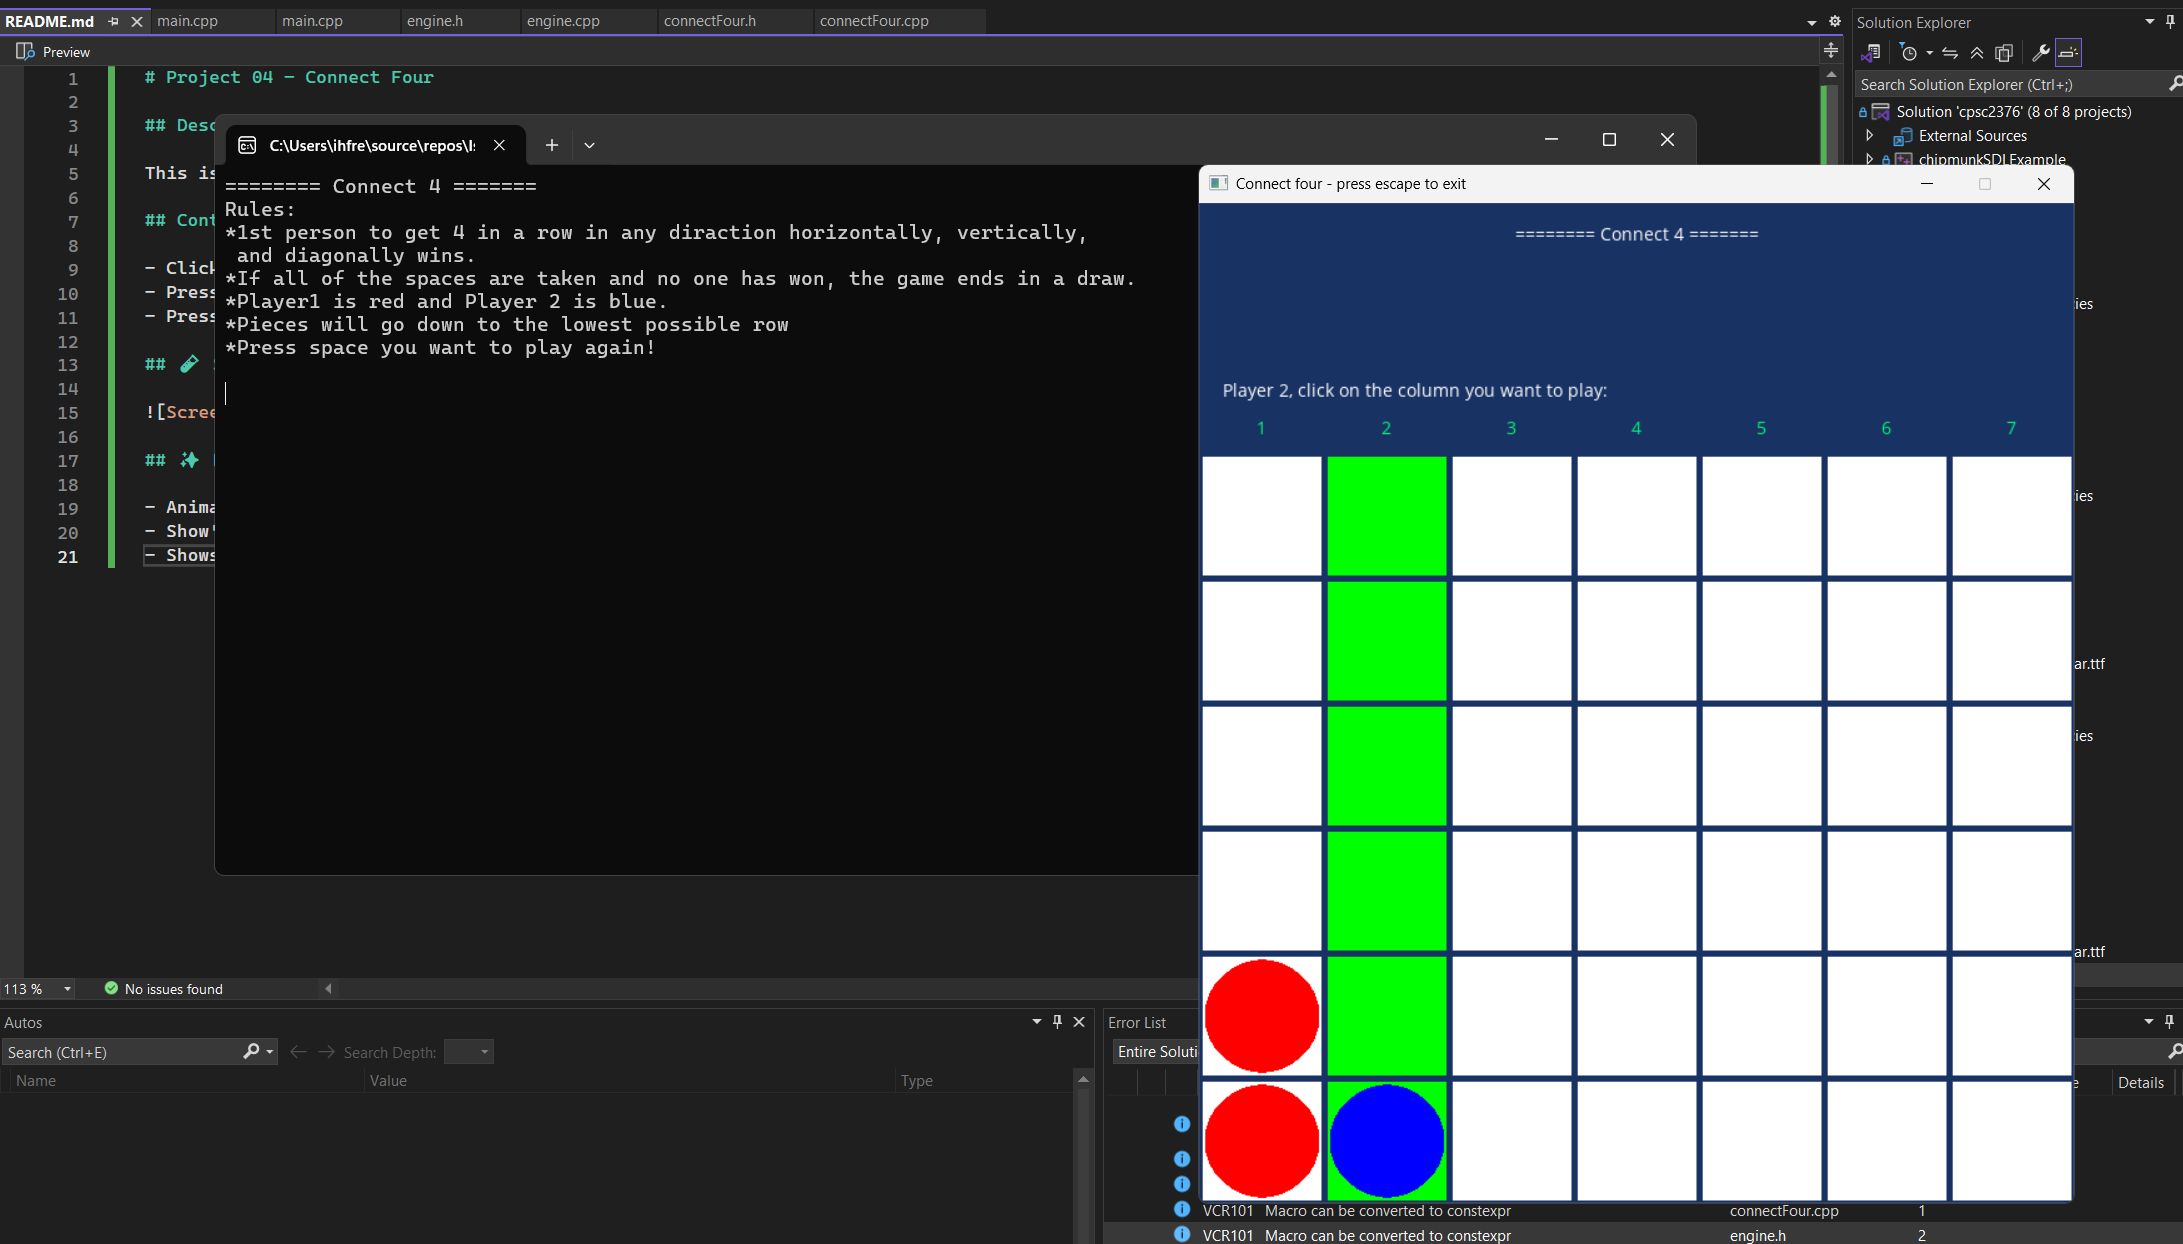
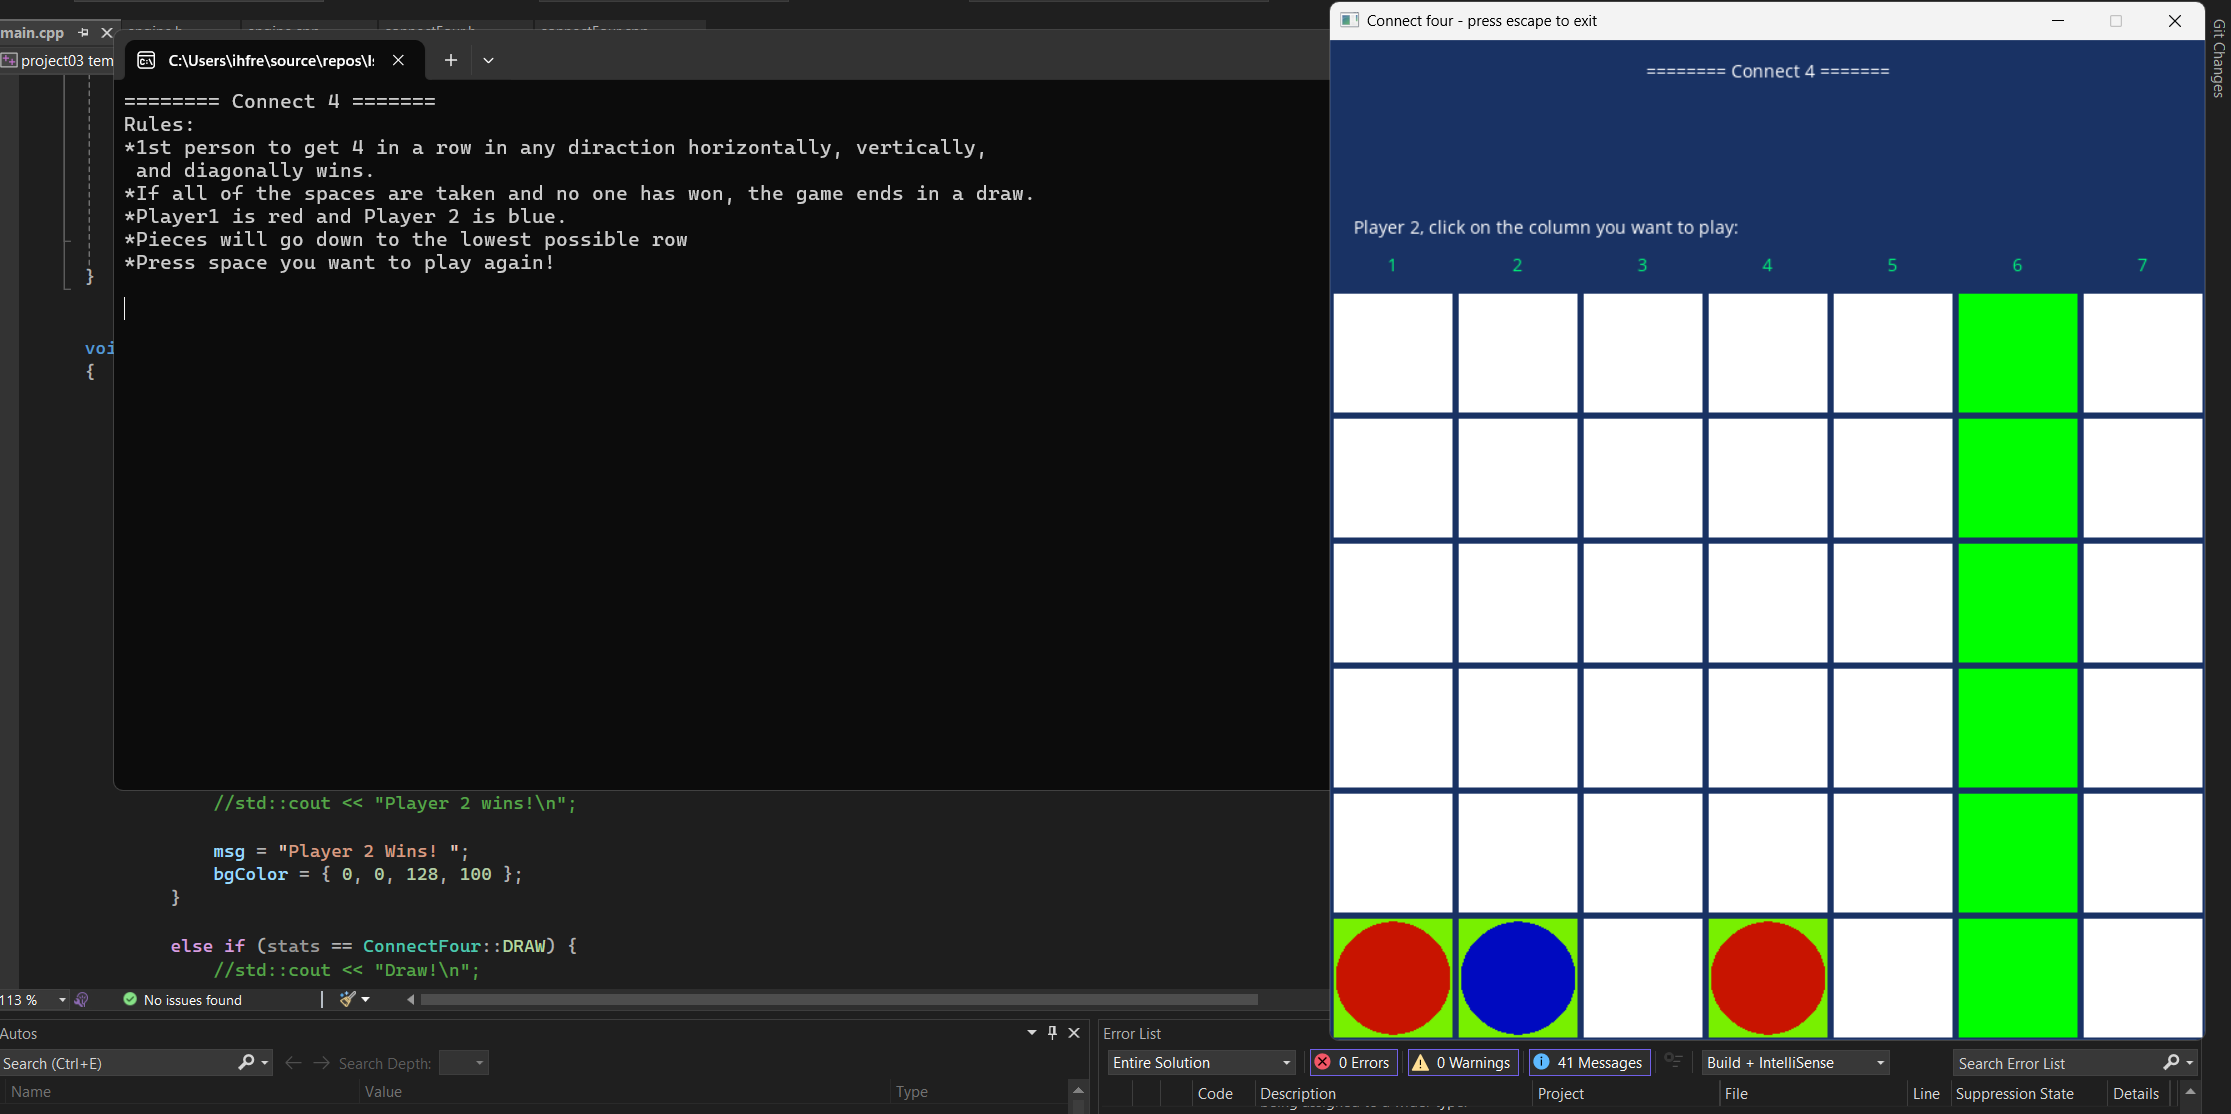
working on project 04, but my restart game function doesn't work currently

diff --git a/projects/project03 temp2/main.cpp b/projects/project03 temp2/main.cpp
@@ -38,10 +38,11 @@ int main(int argc, char* argv[]) {//copied from chipmunkSDLExample
     int col{};
     int row{};
 
-    //rules:
+    //rules display in terminal:
     std::cout << "======== Connect 4 =======\nRules:\n*1st person to get 4 in a row in any diraction horizontally, vertically,"
     << "\n and diagonally wins.\n*If all of the spaces are taken and no one has won, the game ends in a draw."
-    << "\n*Player1 is red and Player 2 is blue.\n*Pieces will go down to the lowest possible row\n*Press space you want to play again!\n\n";
+    << "\n*Player1 is red and Player 2 is blue.\n*Pieces will go down to the lowest possible row\n*Press space you want to play again!"
+    << "\n*Only click the row you want inside the game board! Else it won't count\n\n";
 
     //the actual game
     while (running) {
@@ -67,14 +68,16 @@ int main(int argc, char* argv[]) {//copied from chipmunkSDLExample
             if (event.type == SDL_MOUSEBUTTONDOWN && !mouseClicked) {
                 //check which item is clicked
                 col = event.button.x / 100;//so no accidental moves
+                row = event.button.y / 100;//want to only play inside the gameboard
 
-                if (col >= 0 && currentGame.canMakeMove(col)) {
+                if (col >= 0 && row >= 2 && currentGame.canMakeMove(col)) {
                     currentGame.play(col);
                     //std::cout << "column clicked on and turn is " << currentGame.getTurns() << '\n';
                 }
 
                 else {
                     //std::cout << "UNABLE TO PLACE PIECE THERE! TRY ANOTHER SPOT\n";//find a way to print this to the sdl text thingy
+                    engine.drawText("UNABLE TO PLACE PIECE THERE! TRY ANOTHER SPOT", 175, 100);
                 }
 
                 mouseClicked = true;
@@ -108,10 +111,12 @@ int main(int argc, char* argv[]) {//copied from chipmunkSDLExample
 
         ConnectFour::Status stats = currentGame.status();
 
-        
-        drawWinScreen(stats, engine, currentGame);
+        if (stats == ConnectFour::PLAYER_1_WINS || stats == ConnectFour::PLAYER_2_WINS
+        || stats == ConnectFour::DRAW) {
+            drawWinScreen(stats, engine, currentGame);
+        }
 
-        //text flickers
+        //logo
         engine.drawText("======== Connect 4 =======", 350, 25);
 
         //presents hidden frame
@@ -125,44 +130,40 @@ int main(int argc, char* argv[]) {//copied from chipmunkSDLExample
 
 void drawWinScreen(ConnectFour::Status stats, Engine& engine, ConnectFour& currentGame)
 {
-    if (stats == ConnectFour::PLAYER_1_WINS || stats == ConnectFour::PLAYER_2_WINS
-        || stats == ConnectFour::DRAW) {
+    //print who won
+    //std::cout << "Total number of turns: " << currentGame.getTurns() << '\n';//idk how to print the turns in sdl
+    std::string msg;
+    SDL_Color bgColor;
 
-        //print who won
-        //std::cout << "Total number of turns: " << currentGame.getTurns() << '\n';//idk how to print the turns in sdl
-        std::string msg;
-        SDL_Color bgColor;
-
-        if (stats == ConnectFour::PLAYER_1_WINS) {
-            //std::cout << "Player 1 wins!\n";
+    if (stats == ConnectFour::PLAYER_1_WINS) {
+       //std::cout << "Player 1 wins!\n";
             
-            msg = "Player 1 Wins! ";
-            bgColor = { 128, 0, 0, 100 };
+       msg = "Player 1 Wins! ";
+       bgColor = { 128, 0, 0, 50 };
 
-        }
-
-        else if (stats == ConnectFour::PLAYER_2_WINS) {
-            //std::cout << "Player 2 wins!\n";
-
-            msg = "Player 2 Wins! ";
-            bgColor = { 0, 0, 128, 100 };
-        }
-
-        else if (stats == ConnectFour::DRAW) {
-            //std::cout << "Draw!\n";
-
-            msg = "Draw";
-            bgColor = { 0, 128, 0, 100 };
-        }
-
-        engine.drawRectangle(350, 400, 700, 800, bgColor);
-        engine.drawText(msg, 350, 350);
-        engine.drawText("Press Enter to play again", 350, 600);
-        engine.drawText("Total number of turns: " + std::to_string(currentGame.getTurns()), 100, 80);
-
-        //presents hidden frame
-        //engine.flip();//fixes issue of the last turn not rendering
     }
+
+    else if (stats == ConnectFour::PLAYER_2_WINS) {
+        //std::cout << "Player 2 wins!\n";
+
+        msg = "Player 2 Wins! ";
+        bgColor = { 0, 0, 128, 50 };
+    }
+
+    else if (stats == ConnectFour::DRAW) {
+       //std::cout << "Draw!\n";
+
+       msg = "Draw";
+       bgColor = { 0, 128, 0, 50 };
+    }
+
+    engine.drawRectangle(350, 400, 700, 800, bgColor);
+    engine.drawText(msg, 350, 350);
+    engine.drawText("Press Enter to play again", 350, 600);
+    engine.drawText("Total number of turns: " + std::to_string(currentGame.getTurns()), 100, 80);
+
+    //presents hidden frame
+    //engine.flip();//fixes issue of the last turn not rendering
 }
 //by Isaac Fredricks
 
